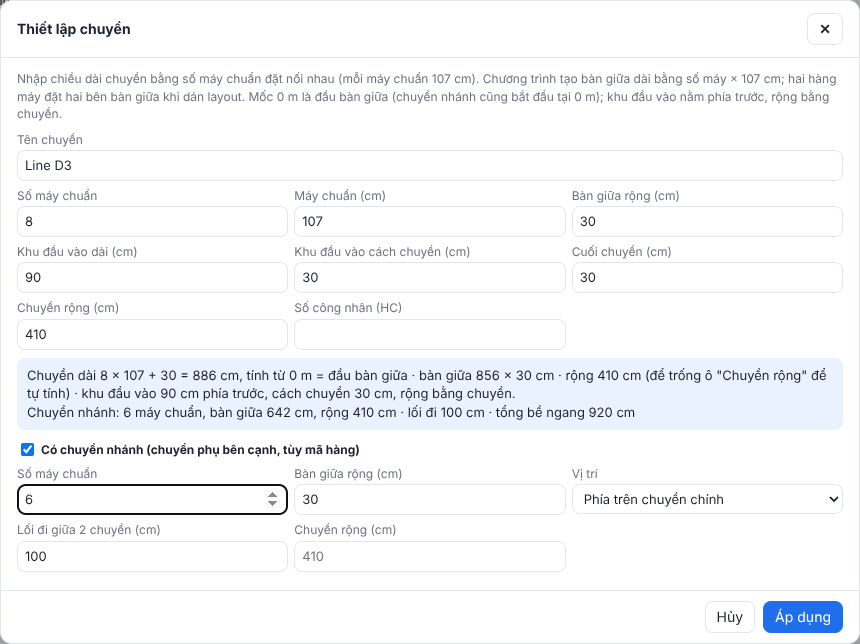
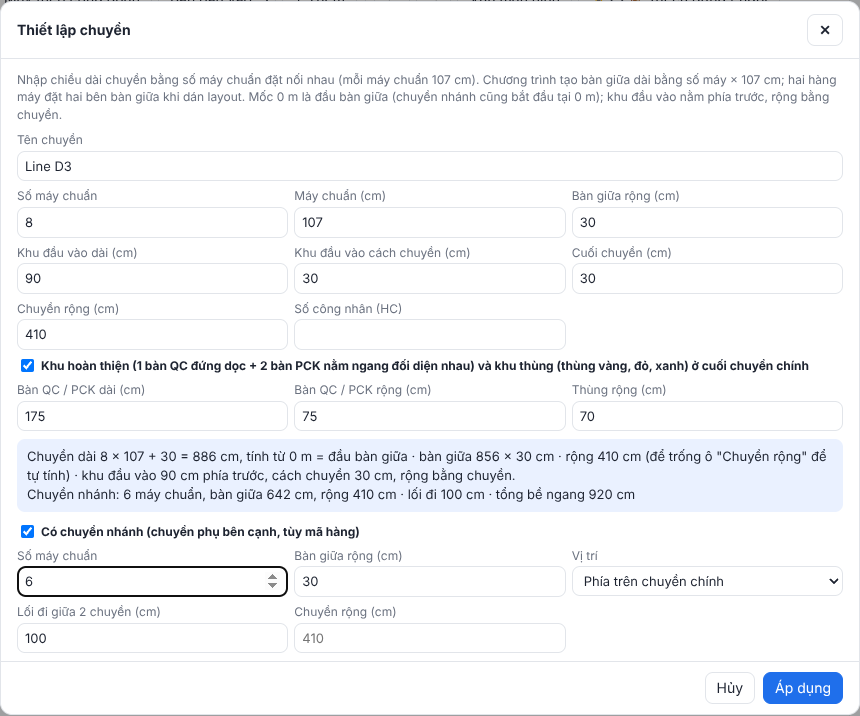
Layout Sim v2.7: manual (VI/EN), screenshots, changelog, home page tag
Claude-Session: https://claude.ai/code/session_01HSftGQWW5Ue2nhxn7qtVsx

diff --git a/manual/layout-sim.html b/manual/layout-sim.html
@@ -1,7 +1,7 @@
 <!doctype html>
 <html lang="vi"><head><meta charset="utf-8"><meta name="viewport" content="width=device-width,initial-scale=1">
 <title>Layout Sim: Hướng dẫn sử dụng</title><link rel="icon" href="../icon.png"><link rel="stylesheet" href="manual.css"></head><body>
-<header><img src="../logo.png" alt="Crystal" onerror="this.remove()"><b>Layout Sim v2.6: Hướng dẫn sử dụng</b><a href="layout-sim.en.html" title="English" onclick="try{localStorage.setItem('ie_site_lang','en')}catch(e){}">EN</a><a href="../index.html">‹ Trang chủ</a></header>
+<header><img src="../logo.png" alt="Crystal" onerror="this.remove()"><b>Layout Sim v2.7: Hướng dẫn sử dụng</b><a href="layout-sim.en.html" title="English" onclick="try{localStorage.setItem('ie_site_lang','en')}catch(e){}">EN</a><a href="../index.html">‹ Trang chủ</a></header>
 <div class="wrap">
 <nav class="toc"><b>Nội dung</b>
 <a href="#gioi-thieu">1. Giới thiệu</a>
@@ -63,7 +63,8 @@
 <tr><td>Cuối chuyền (cm)</td><td>Khoảng trống sau bàn giữa (đóng gói…).</td></tr>
 <tr><td>Chuyền rộng (cm)</td><td>Để trống = tự tính theo bàn giữa, máy, vùng người vận hành và lối đi.</td></tr>
 <tr><td>Số công nhân (HC)</td><td>Số người của chuyền dùng cho mô phỏng WIP. Để trống = lấy số công nhân trong file layout.</td></tr>
-<tr><td>Có chuyền nhánh</td><td>Chuyền phụ bên cạnh (tùy mã hàng): số máy, bàn giữa, vị trí trên/dưới, lối đi giữa 2 chuyền (mặc định 100 cm). Bàn giữa của chuyền nhánh bắt đầu cùng mốc 0 m với chuyền chính; chuyền nhánh cũng có khu đầu vào riêng phía trước.</td></tr></table>
+<tr><td>Có chuyền nhánh</td><td>Chuyền phụ bên cạnh (tùy mã hàng): số máy, bàn giữa, vị trí trên/dưới, lối đi giữa 2 chuyền (mặc định 100 cm). Bàn giữa của chuyền nhánh bắt đầu cùng mốc 0 m với chuyền chính; chuyền nhánh cũng có khu đầu vào riêng phía trước.</td></tr>
+<tr><td>Khu hoàn thiện và khu thùng</td><td>Chỉ ở cuối chuyền chính, cách chuyền 30 cm, rộng bằng chuyền (bỏ tích để không dùng). <b>Khu hoàn thiện</b>: 1 bàn QC đứng dọc và 2 bàn PCK nằm ngang, áp sát bàn QC và áp sát nhau (người đóng gói đối diện nhau); mặc định 175 × 75 cm. <b>Khu thùng</b>: 3 dải thùng vàng, đỏ, xanh đứng dọc, rộng 70 cm, dài bằng bề rộng chuyền, sát nhau và sát bàn PCK. Các bàn kéo / xoay được; khi thiết lập lại chuyền, cả khu di chuyển theo và giữ cách sắp xếp đã chỉnh. Trình tự <code>QC</code>, <code>PACKING</code> tính đường đi tới các bàn này.</td></tr></table>
 <div class="note"><b>Mốc 0 m</b> là đầu bàn giữa (cạnh trái). Thước mét trên mặt bằng 2D và 3D tính từ đó.</div>
 <figure><a href="img/ls-linesetup.png"><img src="img/ls-linesetup.png" alt="Thiết lập chuyền" loading="lazy"></a><figcaption>Thiết lập chuyền 8 máy chuẩn và một chuyền nhánh 6 máy, lối đi 1 m.</figcaption></figure>
 <p>Nút <span class="btn">Công thái học…</span>: kích thước vùng người ngồi/đứng, ghế, lối đi sau lưng, khoảng cách giữa các hàng máy.</p>
@@ -72,7 +73,10 @@
 <section id="dua-layout"><h2>5. Đưa layout vào mặt bằng</h2>
 <p>Bấm <span class="btn">📋 Dán layout</span>. Có ba cách:</p>
 <ol>
-<li><b>Mở file layout Excel</b> (cách chính xác nhất): bấm <span class="btn">📂 Mở file layout Excel (đọc chính xác các hình)…</span>, chọn file <code>.xlsx</code>/<code>.xlsm</code>. Chương trình đọc các hình mã máy + số công đoạn, hoặc layout ghi trong ô (một hàng mã máy, số công đoạn ở hàng trên/dưới), trên mọi sheet. Chọn layout trong danh sách (sheet, số hàng, số máy). Nếu có chuyền nhánh, chọn layout thứ hai cho chuyền nhánh.</li>
+<li><b>Mở file layout Excel</b> (cách chính xác nhất): bấm <span class="btn">📂 Mở file layout Excel (đọc chính xác các hình)…</span>, chọn file <code>.xlsx</code>/<code>.xlsm</code>. Chương trình đọc các hình mã máy + số công đoạn, hoặc layout ghi trong ô (một hàng mã máy, số công đoạn ở hàng trên/dưới), trên mọi sheet. Chọn layout trong danh sách (sheet, số hàng, số máy). Nếu có chuyền nhánh, chọn layout thứ hai cho chuyền nhánh.
+<ul><li>Đọc cả kiểu một hình ghi cả công đoạn và mã máy: <code>31- 1SLM</code>, <code>35/41- 1CSM</code>, <code>116-GFIS</code>. Hình dài “Băng chuyền đôi…” / “Bàn giữa” được hiểu là bàn giữa: hàng phía trên làm từ phía trên, hàng phía dưới làm từ phía dưới.</li>
+<li><b>Máy xoay ngang</b>: hình đứng (cao hơn rộng) là máy xoay 90°; người ngồi phía có hình ghế bên cạnh (không có ghế: bên phải ở hàng trên, bên trái ở hàng dưới). Hình xem trước vẽ hình đứng với chữ dọc và chấm vàng ở chỗ người ngồi; trong bảng xem trước ↻ = người bên phải, ↺ = bên trái.</li>
+<li>Sửa bảng chữ dưới hình xem trước thì chương trình đọc lại theo chữ (không còn thông tin xoay máy); chỉ sửa khi mã / số công đoạn đọc sai.</li></ul></li>
 <li><b>Dán vùng Excel</b>: sao chép vùng layout trong Excel, dán (Ctrl+V) vào ô văn bản.</li>
 <li><b>Dán ảnh</b>: dán ảnh chụp layout; chương trình nhận dạng chữ ngay trên máy (không cần mạng). Kiểm tra lại các mã đọc được.</li></ol>
 <p>Bảng xem trước ghi <b>SAM đọc được cho x/y công đoạn</b> của layout; SAM lấy từ bảng công đoạn của sheet layout, rồi từ bảng công đoạn của các sheet khác trong file (như chế độ tự tạo layout). Công đoạn chưa có SAM được liệt kê để nhập ở trang Mô phỏng WIP.</p>
@@ -81,7 +85,8 @@
 <h3 id="tu-tao">5.1 Tự tạo layout (file chưa có sơ đồ máy)</h3>
 <p>Khi file Excel có <b>bảng công đoạn</b> (cột M/c Type, SAM, CN sắp xếp) và <b>trình tự</b> (<code>Work Flow: 31=&gt;32=&gt;…</code>) nhưng chưa vẽ sơ đồ máy, danh sách layout có thêm dòng <b>⚙ Tự tạo layout từ bảng công đoạn · sheet …</b> (cũng có ở file đã có layout, để so sánh). Chương trình:</p>
 <ul><li>lấy loại máy của từng công đoạn từ cột <b>M/c Type</b>;</li>
-<li>số máy của công đoạn: theo cột số máy nếu có, nếu không theo <b>CN sắp xếp</b> (ô gộp chia theo SAM), làm tròn như quy tắc costing (phần lẻ ≤ 0,20 làm tròn xuống, còn lại làm tròn lên), ít nhất 1 máy;</li>
+<li>bấm <span class="btn">⚙ Tự tạo layout</span> cạnh danh sách layout (hoặc chọn dòng ⚙ trong danh sách);</li>
+<li>số máy của công đoạn: theo cột <b>Arrange. M/C (Thiết Bị)</b> (hoặc cột số máy) nếu có, nếu không theo <b>CN sắp xếp</b> (ô gộp chia theo SAM), làm tròn như quy tắc costing (phần lẻ ≤ 0,20 làm tròn xuống, còn lại làm tròn lên), ít nhất 1 máy;</li>
 <li>xếp máy theo trình tự từng cụm, lần lượt hai bên bàn giữa (so le) để hàng đi tới; có chuyền nhánh thì các cụm phụ đặt ở chuyền nhánh, cụm lắp ráp ở chuyền chính; công đoạn trong bảng nhưng không có trong trình tự được chèn vào cụm lắp ráp theo số;</li>
 <li>đặt người vận hành theo CN sắp xếp (mục 7.1).</li></ul>
 <figure><a href="img/ls-auto.png"><img src="img/ls-auto.png" alt="Tự tạo layout" loading="lazy"></a><figcaption>Layout tự tạo từ bảng công đoạn và trình tự 3 cụm: cụm tim và cụm bát ở chuyền nhánh, cụm lắp ráp ở chuyền chính; mỗi cụm một màu.</figcaption></figure>
@@ -107,7 +112,7 @@
 <section id="nguoi"><h2>7. Người vận hành</h2>
 <ul>
 <li>Mỗi máy mặc định có một người vận hành (ghế hoặc chỗ đứng). Bàn ép, bàn ủi mặc định đứng.</li>
-<li><b>Một người làm nhiều máy</b>: chọn các máy (Shift+bấm, máy có người bấm trước) rồi bấm <span class="btn">👤</span> hoặc phím W. <b>Một người chỉ làm các máy ở cùng một phía của bàn giữa</b> (không đi vòng qua bàn giữa, không sang chuyền khác): chọn máy ở hai phía thì chương trình báo và không ghép. Mũi tên cong màu tím vẽ <b>phía sau lưng người vận hành</b> (không đè lên bàn giữa); máy ở xa có thêm khoảng cách đi lại. Bấm <span class="btn">👤</span> lần nữa để tách.</li>
+<li><b>Một người làm nhiều máy</b>: chọn các máy (Shift+bấm, máy có người bấm trước) rồi bấm <span class="btn">👤</span> hoặc phím W. <b>Một người chỉ làm các máy ở cùng một phía của bàn giữa</b> (không đi vòng qua bàn giữa, không sang chuyền khác): chọn máy ở hai phía thì chương trình báo và không ghép; máy bị kéo sang phía bên kia (hoặc dự án cũ) được trả lại người riêng. Mũi tên cong màu tím vẽ <b>phía sau lưng người vận hành</b> (không đè lên bàn giữa); máy ở xa có thêm khoảng cách đi lại. Bấm <span class="btn">👤</span> lần nữa để tách.</li>
 <li><span class="btn">👤 Bấm máy để bật/tắt người</span>: mỗi lần bấm vào máy là bật/tắt người của máy đó. <span class="btn">Tất cả có người</span>: trả người cho mọi máy.</li>
 <li><span class="btn">🧍↔🪑 Tất cả đứng / ngồi</span> và <span class="btn">Mặc định (ép, ủi đứng)</span>; từng máy: nút 🧍 hoặc phím S.</li></ul>
 <figure><a href="img/ls-share.png"><img src="img/ls-share.png" alt="Một người nhiều máy" loading="lazy"></a><figcaption>Một người chạy nhiều máy: mũi tên tím nối chỗ ngồi với các máy người đó phụ trách.</figcaption></figure>
@@ -128,7 +133,7 @@
 <ul>
 <li>Chương trình tìm loại máy của công đoạn trong layout (ví dụ 45 → 2CSM) và cho biết số máy đang có. Nhập <b>Số máy thêm</b>, bấm <span class="btn">+ Thêm máy</span>: máy mới được đặt vào chỗ trống gần máy cùng công đoạn (không còn chỗ thì đặt dưới mặt bằng, kéo vào vị trí).</li>
 <li>Công đoạn không có trên mặt bằng và trong file: nhập mã máy để thêm.</li>
-<li><span class="btn">🗑 Bỏ công đoạn</span>: xóa các máy của công đoạn; máy ghép (ví dụ “37/42”) chỉ bỏ số công đoạn đó và giữ công đoạn còn lại. Công đoạn cũng được bỏ khỏi trình tự và mô phỏng. Cũng có thể bấm ✕ ở đầu dòng công đoạn trong bảng mô phỏng.</li></ul>
+<li><span class="btn">🗑 Bỏ công đoạn</span>: xóa các máy của công đoạn; máy ghép (ví dụ “37/42”) chỉ bỏ số công đoạn đó và giữ công đoạn còn lại. Công đoạn cũng được bỏ khỏi trình tự và mô phỏng. Cũng có thể bấm ✕ ở đầu dòng công đoạn trong bảng mô phỏng. Công đoạn không có máy trên mặt bằng (chỉ có trong trình tự / bảng công đoạn, SAM 0) cũng bỏ được: chỉ ra khỏi trình tự và mô phỏng.</li></ul>
 <figure><a href="img/ls-opdlg.png"><img src="img/ls-opdlg.png" alt="Thêm máy theo công đoạn" loading="lazy"></a><figcaption>Thêm 2 máy cho công đoạn 45: chương trình đã tìm ra máy 2CSM.</figcaption></figure>
 </section>
 
@@ -155,12 +160,19 @@
 <p>Tab <b>⏱ Mô phỏng WIP</b>:</p>
 <ul>
 <li><b>SAM</b> từng công đoạn đọc từ bảng công đoạn trong file layout; sửa được trong bảng.</li>
-<li><b>Hiệu suất (%)</b>: hiệu suất chung (lấy từ file nếu có); cột <b>Hiệu suất (%)</b> trong bảng cho từng công đoạn (để trống = hiệu suất chung).</li>
+<li><b>Hiệu suất (%)</b>: mỗi công đoạn lấy <b>Target eff (M.tiêu Hiệu suất)</b> của bảng công đoạn trong file (ô gộp áp dụng cho các công đoạn trong ô; số màu xanh trong cột Hiệu suất); nhập số khác để sửa. Bỏ tích “Hiệu suất từng công đoạn theo Target eff…” thì dùng hiệu suất chung cho mọi công đoạn. Công đoạn không có giá trị (hoặc #DIV/0!) dùng hiệu suất chung (lấy từ đầu file nếu có).</li>
 <li><b>Đầu vào</b>: luôn có hàng, hoặc theo sản lượng đầu vào (sp/giờ, mặc định = mục tiêu trong file). <b>Bó hàng</b>: số sản phẩm mỗi bó. <b>Bỏ qua thời gian khởi động</b>: chuyền đã chạy ổn định.</li>
-<li><b>Số người</b>: theo người vận hành trên mặt bằng (một người nhiều máy chia thời gian theo SAM). Nếu chuyền có <b>HC</b> (Thiết lập chuyền, hoặc số công nhân trong file) khác số người trên mặt bằng: người thêm hỗ trợ công đoạn chậm nhất (+1), thiếu người thì bớt ở công đoạn dư năng lực nhất (−1).</li>
+<li><b>Số người</b>: theo người vận hành trên mặt bằng (một người nhiều máy chia thời gian theo SAM / hiệu suất); dòng nhỏ “file: …” = CN sắp xếp trong file. Nếu chuyền có <b>HC</b> (Thiết lập chuyền, hoặc số công nhân trong file) khác số người trên mặt bằng: người thêm hỗ trợ công đoạn chậm nhất (+1), thiếu người thì bớt ở công đoạn dư năng lực nhất (−1).</li>
 <li>Công đoạn ghép trên một máy (“37/42”) do một người làm, đánh dấu ⇄ trong bảng.</li>
 <li>Không có trình tự: hàng đi từ công đoạn nhỏ nhất đến lớn nhất.</li></ul>
-<p>Bấm <span class="btn">▶ Chạy mô phỏng</span>: sản lượng mô phỏng, <b>mức bận</b> (trung bình, thấp nhất, cao nhất; cột <b>Mức bận</b> từng công đoạn; danh sách mức bận từng người vận hành: đỏ ≥ 95 % quá tải, vàng &lt; 60 % ít việc), năng lực công đoạn chậm nhất (nút cổ chai), hiệu suất chuyền, tổng WIP, WIP cuối ca và WIP lớn nhất từng công đoạn, gợi ý (nút cổ chai, WIP dồn, công đoạn ít việc). Thanh năng lực ghi số sp/giờ và mức tải; trên 100 % là không đủ năng lực.</p>
+<p>Bấm <span class="btn">▶ Chạy mô phỏng</span>: sản lượng mô phỏng, <b>mức bận</b> (trung bình, thấp nhất, cao nhất; cột <b>Mức bận</b> từng công đoạn; danh sách mức bận từng người vận hành: đỏ ≥ 95 % quá tải, vàng &lt; 60 % ít việc), năng lực công đoạn chậm nhất (nút cổ chai), hiệu suất chuyền, tổng WIP, WIP cuối ca và WIP lớn nhất từng công đoạn, gợi ý (nút cổ chai, WIP dồn, công đoạn ít việc).</p>
+<table><tr><th>Cột của bảng cân bằng</th><th>Ý nghĩa</th></tr>
+<tr><td>Công đoạn</td><td>Số công đoạn, tên công đoạn (cột Description / Mô tả của file), nhãn nút cổ chai, máy ghép ⇄.</td></tr>
+<tr><td>Người cần</td><td>Số người cần để đạt mục tiêu = mục tiêu × SAM / (60 × hiệu suất); đỏ khi nhiều hơn số người đang có.</td></tr>
+<tr><td>Năng lực (sp/giờ)</td><td>Số sản phẩm công đoạn làm được trong 1 giờ = số người × 60 × hiệu suất / SAM; vạch nhỏ dưới số so với công đoạn nhanh nhất, vạch đứng = mục tiêu.</td></tr>
+<tr><td>Tải</td><td>Sản lượng cần (mục tiêu, không có thì công đoạn chậm nhất) / năng lực: xanh &lt; 90 %, vàng 90–100 %, đỏ &gt; 100 % (không đủ năng lực).</td></tr>
+<tr><td>Mức bận, WIP</td><td>Sau khi chạy mô phỏng: thời gian bận / thời gian có mặt; WIP cuối ca và lớn nhất.</td></tr>
+<tr><td>Dòng Tổng / TB</td><td>Tổng SAM, tổng máy, tổng người (HC, CN sắp xếp trong file), tổng người cần, hiệu suất trung bình theo SAM, sản lượng ra chuyền và mục tiêu, <b>cân bằng chuyền</b> = tổng thời gian làm việc / (số người × chu kỳ công đoạn chậm nhất), mức bận trung bình, tổng WIP.</td></tr></table>
 <figure><a href="img/ls-sim.png"><img src="img/ls-sim.png" alt="Mô phỏng WIP" loading="lazy"></a><figcaption>Kết quả mô phỏng và bảng cân bằng chuyền theo công đoạn; dòng đỏ = nút cổ chai, dòng vàng = WIP vượt mức cảnh báo.</figcaption></figure>
 <div class="ok">Nút <span class="btn">⏱ Mô phỏng WIP</span> trên thanh công cụ <b>Mặt bằng 2D</b> chạy mô phỏng ngay trên mặt bằng: thanh kết quả (sản lượng và chênh lệch so với lần trước, nút cổ chai, hiệu suất, WIP) và nhãn WIP trên từng máy. Khi thanh đang mở, mỗi lần sửa mặt bằng (thêm máy, đổi người…) mô phỏng tự chạy lại. Bấm số công đoạn trên thanh để chọn máy đó; <span class="btn">Chi tiết</span> mở trang Mô phỏng WIP.</div>
 </section>

diff --git a/manual/layout-sim.en.html b/manual/layout-sim.en.html
@@ -1,7 +1,7 @@
 <!doctype html>
 <html lang="en"><head><meta charset="utf-8"><meta name="viewport" content="width=device-width,initial-scale=1">
 <title>Layout Sim: User guide</title><link rel="icon" href="../icon.png"><link rel="stylesheet" href="manual.css"></head><body>
-<header><img src="../logo.png" alt="Crystal" onerror="this.remove()"><b>Layout Sim v2.6: User guide</b><a href="layout-sim.html" title="Tiếng Việt" onclick="try{localStorage.setItem('ie_site_lang','vi')}catch(e){}">VI</a><a href="../index.html">‹ Home</a></header>
+<header><img src="../logo.png" alt="Crystal" onerror="this.remove()"><b>Layout Sim v2.7: User guide</b><a href="layout-sim.html" title="Tiếng Việt" onclick="try{localStorage.setItem('ie_site_lang','vi')}catch(e){}">VI</a><a href="../index.html">‹ Home</a></header>
 <div class="wrap">
 <nav class="toc"><b>Contents</b>
 <a href="#intro">1. Introduction</a>
@@ -63,7 +63,8 @@
 <tr><td>Cuối chuyền (cm)</td><td>Free space after the central table (packing…).</td></tr>
 <tr><td>Chuyền rộng (cm)</td><td>Empty = computed from the central table, machines, operator zones and aisles.</td></tr>
 <tr><td>Số công nhân (HC)</td><td>Headcount of the line used by the WIP simulation. Empty = workers from the layout file.</td></tr>
-<tr><td>Có chuyền nhánh</td><td>Branch line next to the main line (depends on the style): units, central table, position above/below, walkway between the lines (100 cm by default). Its central table starts at the same 0 m as the main line; it also has its own input area in front.</td></tr></table>
+<tr><td>Có chuyền nhánh</td><td>Branch line next to the main line (depends on the style): units, central table, position above/below, walkway between the lines (100 cm by default). Its central table starts at the same 0 m as the main line; it also has its own input area in front.</td></tr>
+<tr><td>Khu hoàn thiện, khu thùng</td><td>Only at the end of the main line, 30 cm after it, as wide as the line (untick to leave out). <b>Finishing area</b>: 1 upright QC table and 2 packing tables lying lengthwise, touching the QC table and each other (packers face each other); 175 × 75 cm by default. <b>Box area</b>: 3 upright strips (yellow, red, green), 70 cm wide, as long as the line is wide, side by side against the packing tables. The tables can be dragged / turned; when the line is set up again the areas move with their arrangement kept. <code>QC</code> and <code>PACKING</code> in the sequence lead to these tables.</td></tr></table>
 <div class="note"><b>0 m</b> is the start (left edge) of the central table. The meter rulers of the 2D plan and the 3D view count from there.</div>
 <figure><a href="img/ls-linesetup.png"><img src="img/ls-linesetup.png" alt="Line set-up" loading="lazy"></a><figcaption>A line of 8 standard units with a branch line of 6 units and a 1 m walkway.</figcaption></figure>
 <p><span class="btn">Công thái học…</span> (ergonomics): sizes of the sitting/standing operator zone, chair, aisle behind the operator, gaps between machine rows.</p>
@@ -72,7 +73,10 @@
 <section id="import"><h2>5. Bringing a layout onto the plan</h2>
 <p>Press <span class="btn">📋 Dán layout</span>. Three ways:</p>
 <ol>
-<li><b>Open the layout Excel file</b> (most exact): press <span class="btn">📂 Mở file layout Excel…</span>, choose the <code>.xlsx</code>/<code>.xlsm</code>. The machine-code + operation-number shapes are read, or a layout written in cells (a row of machine codes with the operation numbers in the row above/below), on every sheet. Pick the layout in the list (sheet, rows, machines). With a branch line, pick a second layout for the branch.</li>
+<li><b>Open the layout Excel file</b> (most exact): press <span class="btn">📂 Mở file layout Excel…</span>, choose the <code>.xlsx</code>/<code>.xlsm</code>. The machine-code + operation-number shapes are read, or a layout written in cells (a row of machine codes with the operation numbers in the row above/below), on every sheet. Pick the layout in the list (sheet, rows, machines). With a branch line, pick a second layout for the branch.
+<ul><li>Boxes holding both the operation and the machine are read too: <code>31- 1SLM</code>, <code>35/41- 1CSM</code>, <code>116-GFIS</code>. A long box “Băng chuyền đôi…” / “Bàn giữa” / conveyor is the central table: rows above it work from above, rows below it from below.</li>
+<li><b>Turned machines</b>: an upright box (taller than wide) is a machine turned 90°; the operator is on the side of the chair picture next to it (no chair: right in the upper row, left in the lower row). The preview draws upright boxes with vertical text and a yellow dot where the operator sits; in the preview table ↻ = operator on the right, ↺ = on the left.</li>
+<li>Editing the text table under the preview re-reads the layout from the text (without the turning); only edit it when a code or operation number was read wrongly.</li></ul></li>
 <li><b>Paste an Excel range</b>: copy the layout range in Excel and paste it (Ctrl+V) into the text box.</li>
 <li><b>Paste a picture</b>: paste a screenshot of the layout; the text is recognised on the PC (no network). Check the codes read.</li></ol>
 <p>The preview shows <b>SAM found for x/y operations</b> of the layout; SAM comes from the operation table of the layout sheet, then from the operation tables of the other sheets of the file (as the automatic layout sees them). Operations without SAM are listed so you can enter them on the WIP simulation page.</p>
@@ -81,7 +85,8 @@
 <h3 id="auto">5.1 Automatic layout (no machine drawing in the file yet)</h3>
 <p>When the Excel file has the <b>operation table</b> (M/c Type, SAM, people arranged) and the <b>sequence</b> (<code>Work Flow: 31=&gt;32=&gt;…</code>) but no machine drawing, the layout list also offers <b>⚙ Automatic layout from the operation table · sheet …</b> (also for files with a layout, to compare). The tool:</p>
 <ul><li>takes the machine type of each operation from <b>M/c Type</b>;</li>
-<li>machines per operation: the machine-count column when present, else the <b>people arranged</b> (a merged cell shared by SAM), rounded like the costing rule (decimal ≤ 0.20 down, else up), at least 1;</li>
+<li>press <span class="btn">⚙ Tự tạo layout</span> next to the layout list (or pick the ⚙ line in the list);</li>
+<li>machines per operation: the column <b>Arrange. M/C (Thiết Bị)</b> (or a machine-count column) when present, else the <b>people arranged</b> (a merged cell shared by SAM), rounded like the costing rule (decimal ≤ 0.20 down, else up), at least 1;</li>
 <li>places the machines along the sequence of each group, alternately on both sides of the central table so the work moves forward; with a branch line the sub-assembly groups go on the branch and the assembly group on the main line; operations of the table missing from the sequence are inserted into the assembly group by number;</li>
 <li>sets the operators from the people arranged (section 7.1).</li></ul>
 <figure><a href="img/ls-auto.png"><img src="img/ls-auto.png" alt="Automatic layout" loading="lazy"></a><figcaption>Layout built from the operation table and a 3-group sequence: two sub-assemblies on the branch line, the assembly on the main line; one colour per group.</figcaption></figure>
@@ -107,7 +112,7 @@
 <section id="operators"><h2>7. Operators</h2>
 <ul>
 <li>Every machine has one operator by default (chair or standing spot). Presses and irons stand by default.</li>
-<li><b>One person runs several machines</b>: select the machines (Shift+click, the machine with the operator first) and press <span class="btn">👤</span> or W. <b>One person only runs machines on one side of the central table</b> (never around the table or on the other line): machines selected on both sides are refused with a message. The purple curved arrow is drawn <b>behind the operator's back</b> (not over the central table); far machines also show the walking distance. Press <span class="btn">👤</span> again to split.</li>
+<li><b>One person runs several machines</b>: select the machines (Shift+click, the machine with the operator first) and press <span class="btn">👤</span> or W. <b>One person only runs machines on one side of the central table</b> (never around the table or on the other line): machines selected on both sides are refused with a message; a machine dragged to the other side (or in an older project) gets its own operator back. The purple curved arrow is drawn <b>behind the operator's back</b> (not over the central table); far machines also show the walking distance. Press <span class="btn">👤</span> again to split.</li>
 <li><span class="btn">👤 Bấm máy để bật/tắt người</span>: each click on a machine turns its operator on/off. <span class="btn">Tất cả có người</span>: operator on every machine.</li>
 <li><span class="btn">🧍↔🪑 Tất cả đứng / ngồi</span> and <span class="btn">Mặc định (ép, ủi đứng)</span>; per machine: 🧍 or S.</li></ul>
 <figure><a href="img/ls-share.png"><img src="img/ls-share.png" alt="One person, several machines" loading="lazy"></a><figcaption>One person runs several machines: purple arrows join the seat with the machines of that person.</figcaption></figure>
@@ -128,7 +133,7 @@
 <ul>
 <li>The machine type of that operation in the layout is found (e.g. 45 → 2CSM) with the number of machines on the plan. Enter <b>machines to add</b>, press <span class="btn">+ Thêm máy</span>: the new machines go to a free place next to the machines of the same operation (or below the plan when there is no room: drag them into place).</li>
 <li>An operation that is neither on the plan nor in the file: type a machine code.</li>
-<li><span class="btn">🗑 Bỏ công đoạn</span> (remove operation): its machines are deleted; a combined machine (e.g. “37/42”) only loses that operation number and keeps the other one. The operation also leaves the sequence and the simulation. The ✕ at the start of an operation row in the simulation table does the same.</li></ul>
+<li><span class="btn">🗑 Bỏ công đoạn</span> (remove operation): its machines are deleted; a combined machine (e.g. “37/42”) only loses that operation number and keeps the other one. The operation also leaves the sequence and the simulation. The ✕ at the start of an operation row in the simulation table does the same. An operation without machine on the plan (only in the sequence / operation table, SAM 0) can be removed too: it only leaves the sequence and the simulation.</li></ul>
 <figure><a href="img/ls-opdlg.png"><img src="img/ls-opdlg.png" alt="Add machines by operation" loading="lazy"></a><figcaption>Adding 2 machines for operation 45: machine 2CSM found.</figcaption></figure>
 </section>
 
@@ -155,12 +160,19 @@
 <p>Tab <b>⏱ Mô phỏng WIP</b>:</p>
 <ul>
 <li><b>SAM</b> per operation from the operation table of the layout file; editable in the table.</li>
-<li><b>Efficiency (%)</b>: general efficiency (from the file when present); the <b>Hiệu suất (%)</b> column sets it per operation (empty = general).</li>
+<li><b>Efficiency (%)</b>: each operation takes the <b>Target eff (M.tiêu Hiệu suất)</b> of the operation table in the file (a merged cell applies to its operations; blue number in the efficiency column); type another value to change it. Untick “Hiệu suất từng công đoạn theo Target eff…” to use the general efficiency everywhere. Operations without a value (or #DIV/0!) use the general efficiency (from the file header when present).</li>
 <li><b>Input</b>: always available, or at an input rate (pcs/h, default = target of the file). <b>Bundle</b>: pieces per bundle. <b>Skip the warm-up</b>: the line is already running steadily.</li>
-<li><b>People</b>: the operators on the plan (one person on several machines splits the time by SAM). When the line <b>HC</b> (line set-up, or workers of the file) differs from the people on the plan, extra people help the slowest operation (+1) and missing people are taken where most capacity is spare (−1).</li>
+<li><b>People</b>: the operators on the plan (one person on several machines splits the time by SAM / efficiency); the small line “file: …” = people arranged in the file. When the line <b>HC</b> (line set-up, or workers of the file) differs from the people on the plan, extra people help the slowest operation (+1) and missing people are taken where most capacity is spare (−1).</li>
 <li>Operations combined on one machine (“37/42”) are done by one person, marked ⇄ in the table.</li>
 <li>Without a sequence: the work flows from the lowest to the highest operation number.</li></ul>
-<p>Press <span class="btn">▶ Chạy mô phỏng</span>: simulated output, <b>utilisation</b> (average, lowest, highest; column <b>Mức bận</b> per operation; list per operator: red ≥ 95 % overloaded, yellow &lt; 60 % little work), capacity of the slowest operation (bottleneck), line efficiency, total WIP, WIP at the end and maximum per operation, suggestions (bottleneck, WIP piles, operations with little work). Capacity bars show pcs/h and load; above 100 % the capacity is not enough.</p>
+<p>Press <span class="btn">▶ Chạy mô phỏng</span>: simulated output, <b>utilisation</b> (average, lowest, highest; column <b>Mức bận</b> per operation; list per operator: red ≥ 95 % overloaded, yellow &lt; 60 % little work), capacity of the slowest operation (bottleneck), line efficiency, total WIP, WIP at the end and maximum per operation, suggestions (bottleneck, WIP piles, operations with little work).</p>
+<table><tr><th>Column of the balance table</th><th>Meaning</th></tr>
+<tr><td>Operation</td><td>Operation number, name (Description / Mô tả column of the file), bottleneck tag, combined machine ⇄.</td></tr>
+<tr><td>People needed</td><td>People needed for the target = target × SAM / (60 × efficiency); red when more than the people there.</td></tr>
+<tr><td>Capacity (pcs/h)</td><td>Pieces the operation makes per hour = people × 60 × efficiency / SAM; the thin bar compares with the fastest operation, the tick = target.</td></tr>
+<tr><td>Load</td><td>Output needed (target, else the slowest operation) / capacity: green &lt; 90 %, yellow 90–100 %, red &gt; 100 % (not enough capacity).</td></tr>
+<tr><td>Utilisation, WIP</td><td>After the simulation: busy time / time present; WIP at the end and maximum.</td></tr>
+<tr><td>Total / avg row</td><td>Total SAM, machines, people (HC, people arranged in the file), people needed, efficiency averaged by SAM, output and target, <b>line balance</b> = total work time / (people × cycle time of the slowest operation), average utilisation, total WIP.</td></tr></table>
 <figure><a href="img/ls-sim.png"><img src="img/ls-sim.png" alt="WIP simulation" loading="lazy"></a><figcaption>Simulation result and line balance per operation; red row = bottleneck, yellow row = WIP above the warning level.</figcaption></figure>
 <div class="ok">The <span class="btn">⏱ Mô phỏng WIP</span> button in the <b>2D plan</b> toolbar runs the simulation right on the plan: a result bar (output and change against the last run, bottleneck, efficiency, WIP) and WIP labels on the machines. While the bar is open the simulation runs again after every change of the plan (machines added, operators changed…). Click an operation number on the bar to select its machines; <span class="btn">Chi tiết</span> opens the simulation page.</div>
 </section>

diff --git a/index.html b/index.html
@@ -34,7 +34,7 @@ ul{margin:8px 0 0 18px;padding:0}a{color:var(--accent)}
 <div class="muted" data-t="ibmDesc">Cập nhật MACHINE DATABASE, phân tích thiếu máy, chuẩn bị máy, IE Tech duyệt, chốt báo cáo, nhật ký.</div>
 <a class="btn" href="ie-bao-cao-may/IE_BaoCaoMay.html" data-t="openIbm">Mở IE Báo cáo máy</a><a class="btn sec" id="manIbm" href="manual/ie-bao-cao-may.html" data-t="manual">📖 Hướng dẫn sử dụng</a></div>
 
-<div class="card"><h2>Layout Sim <span class="tag">v2.6</span></h2>
+<div class="card"><h2>Layout Sim <span class="tag">v2.7</span></h2>
 <div class="muted" data-t="lsDesc">Mô phỏng bố trí chuyền theo tỷ lệ: mở layout Excel (hình vẽ hoặc ô) hoặc dán ảnh, kéo, xoay máy, chuyền nhánh, trình tự và quãng đường di chuyển, xem 3D, lưu dự án, mô phỏng WIP theo SAM, hiệu suất và số người của chuyền.</div>
 <a class="btn" href="layout-sim/LayoutSim.html" data-t="openLs">Mở Layout Sim</a><a class="btn sec" id="manLs" href="manual/layout-sim.html" data-t="manual">📖 Hướng dẫn sử dụng</a></div>
 

diff --git a/layout-sim/LayoutSim.html b/layout-sim/LayoutSim.html
@@ -121,7 +121,7 @@ kbd{border:1px solid var(--line);border-bottom-width:2px;border-radius:4px;paddi
 <body>
 <header>
   <a id="bHome" class="homebtn" href="../index.html" data-t="bHome" data-tt="bHomeTip">← IE Tools</a>
-  <h1 data-t="appTitle">Mô phỏng bố trí chuyền</h1><span class="tag t-info">v2.6</span>
+  <h1 data-t="appTitle">Mô phỏng bố trí chuyền</h1><span class="tag t-info">v2.7</span>
   <nav class="tabs"><button data-tab="proj" data-t="tabProj">🏠 Dự án</button><button data-tab="plan" class="on" data-t="tabPlan">Mặt bằng 2D</button><button data-tab="3d" data-t="tab3d">3D</button><button data-tab="sim" data-t="tabSim">⏱ Mô phỏng WIP</button><button data-tab="lib" data-t="tabLib">Thư viện máy</button></nav>
   <div class="hr">
     <button id="bNew" data-t="bNew">Mới</button><button id="bOpen" data-t="bOpen">Mở…</button><button id="bSave" class="primary" data-t="bSave" data-tt="bSaveTip">Lưu</button>

diff --git a/CLAUDE.md b/CLAUDE.md
@@ -24,7 +24,7 @@ src/ie-bao-cao-may/      sources: core.js i18n.js worker.js logic.js prep.js app
 vendor/                  SheetJS (reads xlsx), ExcelJS (writes coloured xlsx) + licences
 tools/build_ie_bao_cao_may.py   python3 tools/build_ie_bao_cao_may.py   -> regenerates the HTML (inlines libs, version tag)
 tests/                   Playwright (python) harnesses, see section 7
-layout-sim/              LayoutSim.html is GENERATED from src/layout-sim (tpl.html i18n.js lib.js model.js plan2d.js view3d.js app.js VERSION) by `python3 tools/build_layout_sim.py`; vendor/three.min.js (three r149, MIT) is inlined. Test: `python3 tests/layout-sim/smoke.py` (turnkey, synthetic library). Company machine library Excel is loaded in the browser (localStorage `ls_lib`, `ls_map`, work in `ls_work`), never committed. Layout Excel import (v1.7): `xlimport.js` reads shapes from xl/drawings via XLSX.CFB (no OCR); `flow.js` operation sequence (`ST.seqText`), flow distance, suggestions; branch line = `ST.line.zones` (main / walk / branch), items on the branch have `zone:'branch'`. Projects (v1.8): `project.js`, `ST.info` (style, source file/sheet, workers, SAM, OBD, projId) saved in the .layout.json; recent projects in IndexedDB `layoutsim` (stores `projects`, `kv` with the project folder handle); the first start asks the project folder, saves go there silently. Simulation (v2.0/2.1): `sim.js`, SAM and own efficiency per operation in `ST.ops[op]` (`sam`, `eff` %), line headcount `ST.line.hc` (else `ST.info.optr`), combined ops "37/42" = one operator; v2.3 people arranged in the file (`ST.ops[op].ar` value of the group, `ag` group key = merged cell, `ai` table order; `arrGroups`/`arrUnits`/`applyArrangement` in sim.js, applied on import); v2.2 `changes.js`: reference `ST.base` (machines per op×code at import) vs plan = card "Thay đổi so với file layout", removed operations `ST.opsOff` (kept for restore, filtered out of `seqParse`), add machine by operation `addByOp`, quick WIP bar on the 2D page, (read by `xlOpsTables`), `simBalance` static balance, `simRun` event simulation (bundles, join of sub-assemblies, pull priority, warm-up). Line geometry v2.4: 0 m = left edge of the central table (`setupLine`, `ST.line.v = 2`), zones `input`/`inputB` in front (`start` = input area length, `gap`), `lineExtent()` for drawing/fit, `closeSel()` close up (K). v2.6: `sideKey()` one person per side of the central table (opShare refuses `cross`, applyArrangement per side), `xlOpsAll()` SAM from every sheet, label sizes `LBL` (localStorage `ls_lblsz`). v2.5: machine colour = flow group (`flowColOf`, flow.js), utilisation per operation (`SIMR.rows[].util`) and operator, automatic layout `XLI.auto` / `autoRows` / `xlAuto` in xlimport.js (option value `a:k`). Picture paste (v1.1): `imgpaste.js` + sidecar `layout-sim/ocr-engine.js` (generated from vendor/tesseract: tesseract.js 5.1.1, LSTM SIMD core, eng best_int; keep it next to LayoutSim.html). Manual: `manual/layout-sim.html` + `.en.html` (screenshots `manual/img/ls-*.png` = `python3 tests/layout-sim/smoke.py --shots manual/img`).
+layout-sim/              LayoutSim.html is GENERATED from src/layout-sim (tpl.html i18n.js lib.js model.js plan2d.js view3d.js app.js VERSION) by `python3 tools/build_layout_sim.py`; vendor/three.min.js (three r149, MIT) is inlined. Test: `python3 tests/layout-sim/smoke.py` (turnkey, synthetic library). Company machine library Excel is loaded in the browser (localStorage `ls_lib`, `ls_map`, work in `ls_work`), never committed. Layout Excel import (v1.7): `xlimport.js` reads shapes from xl/drawings via XLSX.CFB (no OCR); `flow.js` operation sequence (`ST.seqText`), flow distance, suggestions; branch line = `ST.line.zones` (main / walk / branch), items on the branch have `zone:'branch'`. Projects (v1.8): `project.js`, `ST.info` (style, source file/sheet, workers, SAM, OBD, projId) saved in the .layout.json; recent projects in IndexedDB `layoutsim` (stores `projects`, `kv` with the project folder handle); the first start asks the project folder, saves go there silently. Simulation (v2.0/2.1): `sim.js`, SAM and own efficiency per operation in `ST.ops[op]` (`sam`, `eff` %), line headcount `ST.line.hc` (else `ST.info.optr`), combined ops "37/42" = one operator; v2.3 people arranged in the file (`ST.ops[op].ar` value of the group, `ag` group key = merged cell, `ai` table order; `arrGroups`/`arrUnits`/`applyArrangement` in sim.js, applied on import); v2.2 `changes.js`: reference `ST.base` (machines per op×code at import) vs plan = card "Thay đổi so với file layout", removed operations `ST.opsOff` (kept for restore, filtered out of `seqParse`), add machine by operation `addByOp`, quick WIP bar on the 2D page, (read by `xlOpsTables`), `simBalance` static balance, `simRun` event simulation (bundles, join of sub-assemblies, pull priority, warm-up). Line geometry v2.4: 0 m = left edge of the central table (`setupLine`, `ST.line.v = 2`), zones `input`/`inputB` in front (`start` = input area length, `gap`), `lineExtent()` for drawing/fit, `closeSel()` close up (K). v2.7: `ST.ops[op].tef` (Target eff %), `mcn` (Arrange. M/C), `nm`/`nm2` names, `splitCrossLinks()`, one-box layouts `OPCODE_RE` + turned machines (`cell.dir` left/right from chair pictures, `pic` shapes), finishing zones `finish`/`boxes` (`placeFinish`, items with `zone`). v2.6: `sideKey()` one person per side of the central table (opShare refuses `cross`, applyArrangement per side), `xlOpsAll()` SAM from every sheet, label sizes `LBL` (localStorage `ls_lblsz`). v2.5: machine colour = flow group (`flowColOf`, flow.js), utilisation per operation (`SIMR.rows[].util`) and operator, automatic layout `XLI.auto` / `autoRows` / `xlAuto` in xlimport.js (option value `a:k`). Picture paste (v1.1): `imgpaste.js` + sidecar `layout-sim/ocr-engine.js` (generated from vendor/tesseract: tesseract.js 5.1.1, LSTM SIMD core, eng best_int; keep it next to LayoutSim.html). Manual: `manual/layout-sim.html` + `.en.html` (screenshots `manual/img/ls-*.png` = `python3 tests/layout-sim/smoke.py --shots manual/img`).
 index.html               landing page for GitHub Pages;  update.bat = `git pull` for the shared-folder option
 logo.png icon.png         Crystal logo (copied from the Time Study app) used by index.html and manual/*.html
 manual/                  User manuals in Vietnamese (`*.html`) AND English (`*.en.html`), HTML, hand-written; the home page `index.html` also has a VI/EN switch (localStorage `ie_site_lang`, shared with the manuals). KEEP BOTH LANGUAGES IN SYNC when a manual changes; the screenshots show the Vietnamese UI and are shared with screenshots in manual/img/ (taken from SYNTHETIC demo data by tools/manual_shots/, see its README); linked from index.html

diff --git a/CHANGELOG.md b/CHANGELOG.md
@@ -3,6 +3,7 @@
 Dates are the build dates in the working sessions (Nov 2026). "LC" = Layout Check, "IBM" = IE Báo cáo máy (IE_BaoCaoMay.html).
 
 ## Layout Sim
+- **v2.7** Efficiency per operation from the file's "Target eff (M.tiêu Hiệu suất)" (merged cells, #DIV/0! ignored; checkbox to use the general efficiency); shared operators split their time by SAM / efficiency. Automatic layout: machines per operation from "Arrange. M/C (Thiết Bị)"; button "⚙ Tự tạo layout". Layout drawings with one box per machine ("31- 1SLM", "35/41- 1CSM"), the conveyor box as central table, upright boxes = machines turned 90° with the operator on the side of the chair picture; preview draws them with the operator places. Balance table: operation names (Vietnamese text of the file), people needed for the target, capacity and load in labelled columns with a thin bar, totals row (SAM, machines, people, people needed, efficiency, output vs target, line balance, utilisation, WIP). Operations without machine / SAM can be removed. Operator links across the central table are split automatically. Finishing area (QC upright + 2 packing tables, touching) and box area (yellow, red, green strips 70 cm wide, as long as the line is wide) after the main line, created by the line set-up. SAM kept from the file in every import path. Manual updated.
 - **v2.6** One person works on one side of the central table only: "one person, several machines" across the table or between the two lines is refused; the arrangement from the file is applied per side (at least one person per side, extra people reported); the automatic layout keeps operations sharing people on one side. SAM: the operation tables of every sheet fill the operations of a drawn layout still without SAM (as the automatic layout sees them); the preview shows "SAM found for x/y operations" and lists the missing ones; layout operation numbers with leading zeros match the table. Label text sizes adjustable ("Chữ mã máy", "Chữ số công đoạn", 60–250 %, 2D, 3D and export, remembered). Manual updated.
 - **v2.5** Machines coloured by flow: every machine of a sequence group has the colour of that group's flow line (2D fill, 3D table border); machines outside every group are grey (no more colour by machine type). WIP simulation: utilisation per operation (column "Mức bận"), average / lowest / highest tile and a bar list per operator (red ≥ 95 %, yellow < 60 %). Automatic layout: an Excel sheet with an operation table (M/c Type, SAM, CN sắp xếp, optional machine-count column) and a work flow but no machine drawing is offered as "⚙ Tự tạo layout": machines per operation from the machine count or the people arranged (costing rounding), placed along the sequence alternately on both sides of the central table (sub-assemblies on the branch line when there is one), operators as arranged. Manual updated.
 - **v2.4** Line geometry: 0 m = left edge of the central table; the input area (default 90 cm long, 30 cm in front of the line, as wide as the line) is a separate area in front where the input table is placed; a branch line's central table also starts at 0 m (no offset any more) and has its own input area. "Đầu chuyền" replaced by "Khu đầu vào dài" + "Khu đầu vào cách chuyền". New "⇥⇤ Khép sát" (K): the selected machines touch each other along each row and the row nearest the central table touches it with the edge facing it (rows further out move with it). Operator arrows (one person, several machines) are drawn behind the operator's back, not over the central table (2D and 3D). Manual updated.
